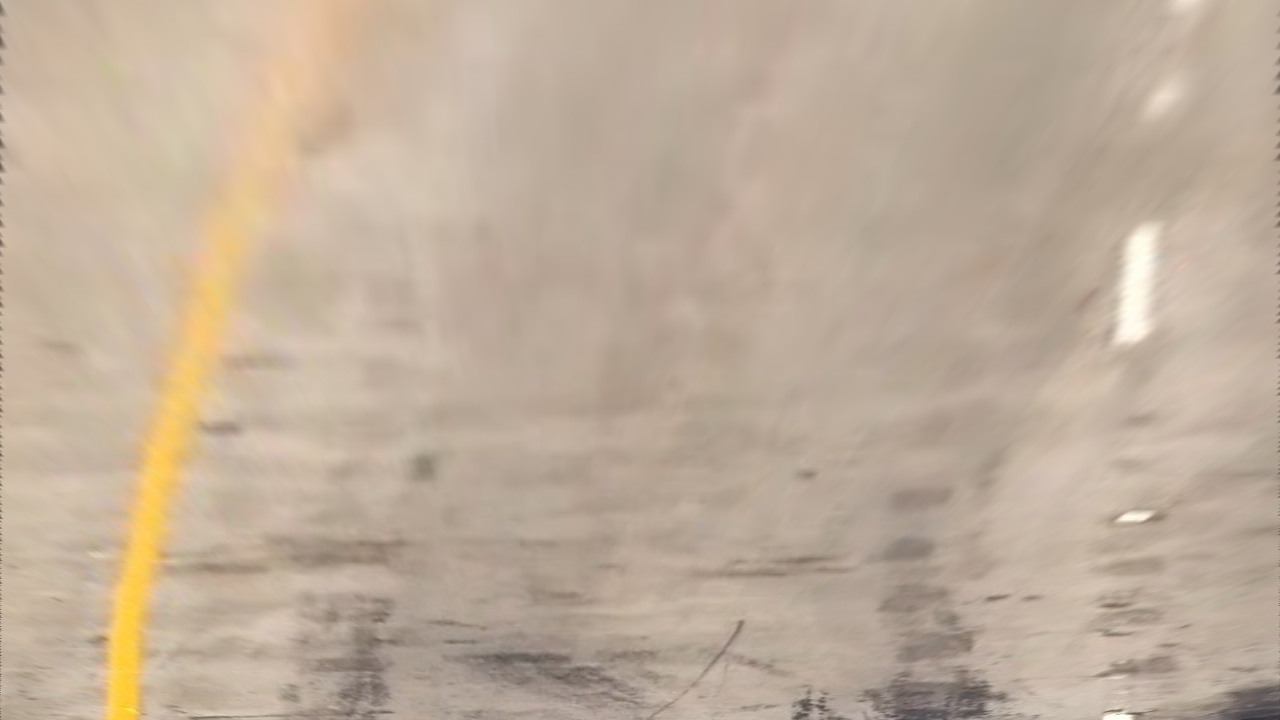
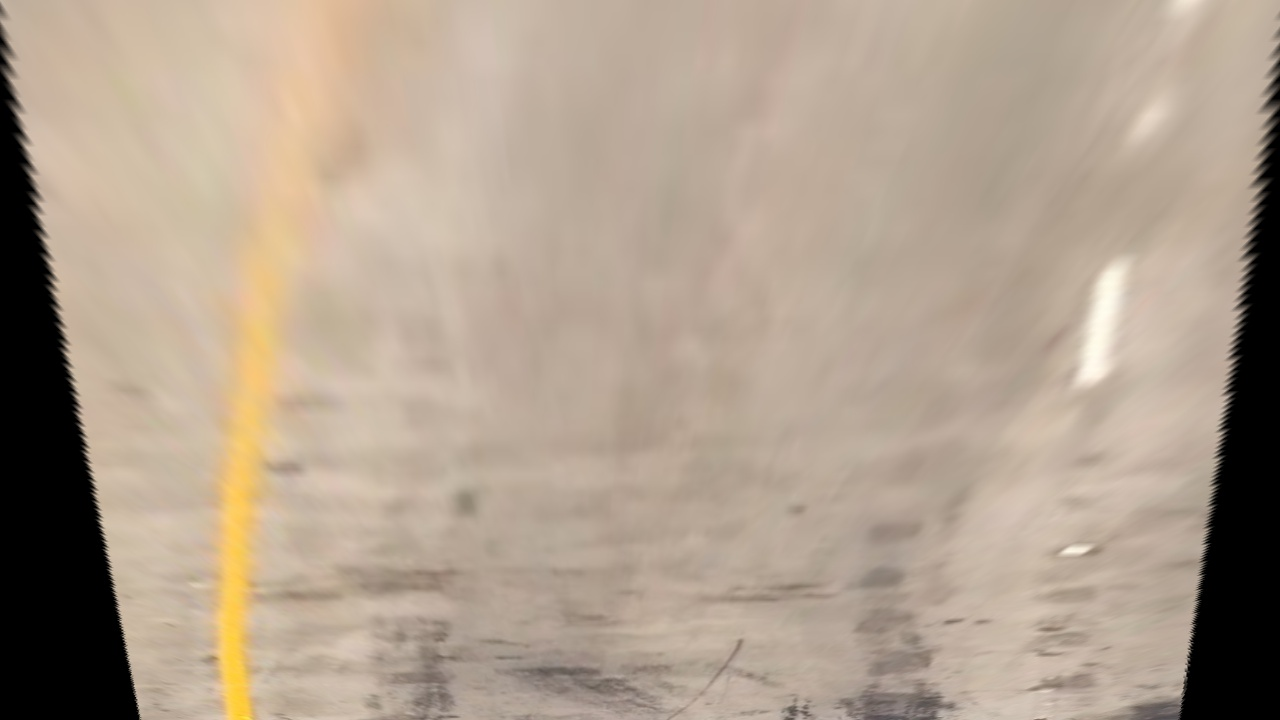
update transform parameters

diff --git a/pipeline.py b/pipeline.py
@@ -118,12 +118,10 @@ def transfrom_street_lane(img):
     
     src = np.float32(list(vertices))
     dst = np.float32(
-        [[0,img_size[0]],
-        # [img_size[1]*.23, 0], 
-        # [img_size[1]*.77, 0], 
+        [[img_size[1]*.11,img_size[0]],
         [0, 0], 
-        [img_size[1], 0],
-        [img_size[1],img_size[0]]])
+        [img_size[1],0],
+        [img_size[1]*.92,img_size[0]]])
         
     M = cv2.getPerspectiveTransform(src, dst)
     warped = cv2.warpPerspective(img, M, img_size[::-1], flags=cv2.INTER_LINEAR)
